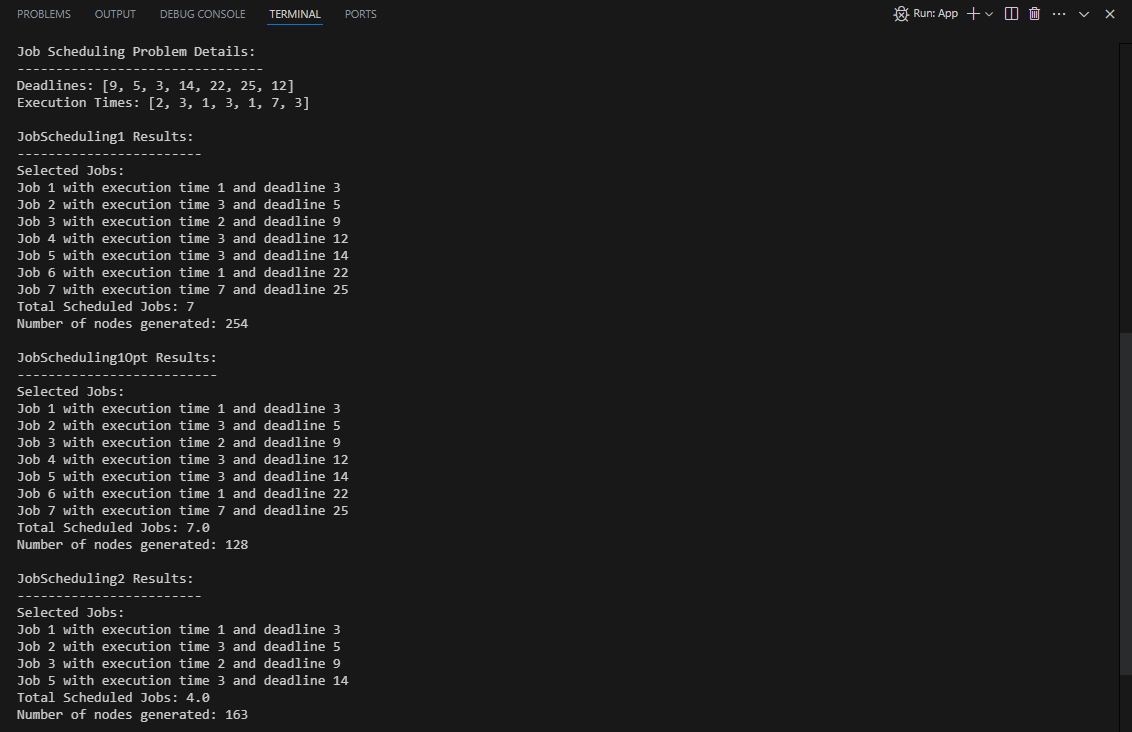
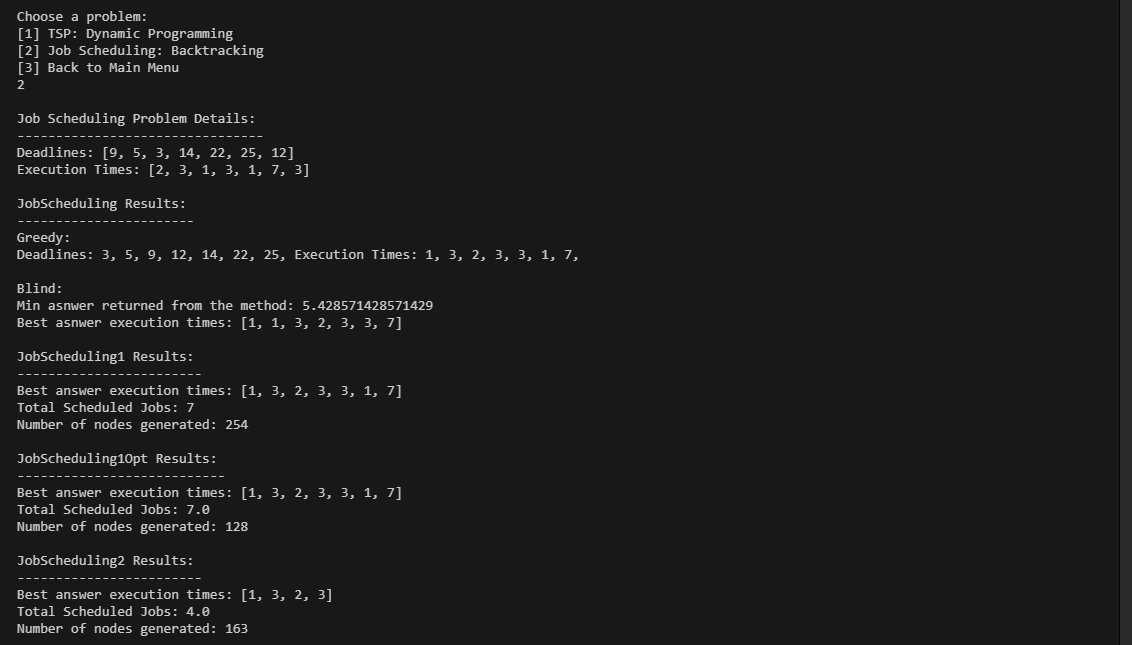
feat: add best answer

diff --git a/major_assignment/src/JobScheduling1Opt.java b/major_assignment/src/JobScheduling1Opt.java
@@ -4,12 +4,14 @@ public class JobScheduling1Opt extends BackTrackingOptimization<Integer> {
     private int n; // Number of jobs
     private int[] deadlines;
     private int[] executionTimes;
+    private int[] bestAnswer;
 
     public JobScheduling1Opt(int[] deadlines, int[] executionTimes) {
         super(new Integer[deadlines.length], new Integer[deadlines.length]);
         this.n = deadlines.length;
         this.deadlines = deadlines;
         this.executionTimes = executionTimes;
+        this.bestAnswer = new int[n];
         sortJobs();
     }
 
@@ -50,14 +52,22 @@ public class JobScheduling1Opt extends BackTrackingOptimization<Integer> {
     protected double cost(int k) {
         int clock = 0;
         int currentProfit = 0;
+        int[] tempBest = new int[n];
+        int index = 0;
         for (int i = 0; i <= k; i++) {
             if (x[i] == 1) {
                 clock += executionTimes[i];
                 if (clock <= deadlines[i]) {
                     currentProfit++;
+                    tempBest[index++] = executionTimes[i];
                 }
             }
         }
+        if (currentProfit > finalProfit) {
+            finalProfit = currentProfit;
+            bestAnswer = Arrays.copyOf(tempBest, index);
+        }
+
         return currentProfit;
     }
 
@@ -67,13 +77,7 @@ public class JobScheduling1Opt extends BackTrackingOptimization<Integer> {
     }
 
     public void report() {
-        System.out.println("Selected Jobs: ");
-        for (int i = 0; i < n; i++) {
-            if (finalX[i] != null && finalX[i] == 1) {
-                System.out.println("Job " + (i + 1) + " with execution time " + executionTimes[i] + " and deadline "
-                        + deadlines[i]);
-            }
-        }
+        System.out.println("Best answer execution times: " + Arrays.toString(bestAnswer));
         System.out.println("Total Scheduled Jobs: " + finalProfit);
         System.out.println("Number of nodes generated: " + numberOfNodes);
     }

diff --git a/major_assignment/src/JobScheduling1.java b/major_assignment/src/JobScheduling1.java
@@ -6,6 +6,7 @@ public class JobScheduling1 extends BackTracking<Integer> {
     private int[] executionTimes;
     private int[] finalX; // Best Solution Tuple
     private int finalProfit;
+    private int[] bestAnswer;
 
     public JobScheduling1(int[] deadlines, int[] executionTimes) {
         super(new Integer[deadlines.length]);
@@ -14,6 +15,7 @@ public class JobScheduling1 extends BackTracking<Integer> {
         this.executionTimes = executionTimes;
         this.finalX = new int[n];
         this.finalProfit = 0;
+        this.bestAnswer = new int[n];
         sortJobs();
     }
 
@@ -59,11 +61,14 @@ public class JobScheduling1 extends BackTracking<Integer> {
     protected void solutionFound(int k) {
         int clock = 0;
         int currentProfit = 0;
+        int[] tempBest = new int[n];
+        int index = 0;
         for (int i = 0; i <= k; i++) {
             if (x[i] == 1) {
                 clock += executionTimes[i];
                 if (clock <= deadlines[i]) {
                     currentProfit++;
+                    tempBest[index++] = executionTimes[i];
                 }
             }
         }
@@ -72,17 +77,12 @@ public class JobScheduling1 extends BackTracking<Integer> {
             for (int i = 0; i < n; i++) {
                 finalX[i] = (x[i] == null) ? 0 : x[i];
             }
+            bestAnswer = Arrays.copyOf(tempBest, index);
         }
     }
 
     public void report() {
-        System.out.println("Selected Jobs: ");
-        for (int i = 0; i < n; i++) {
-            if (finalX[i] == 1) {
-                System.out.println("Job " + (i + 1) + " with execution time " + executionTimes[i] + " and deadline "
-                        + deadlines[i]);
-            }
-        }
+        System.out.println("Best answer execution times: " + Arrays.toString(bestAnswer));
         System.out.println("Total Scheduled Jobs: " + finalProfit);
         System.out.println("Number of nodes generated: " + numberOfNodes);
     }

diff --git a/major_assignment/src/JobScheduling.java b/major_assignment/src/JobScheduling.java
@@ -6,19 +6,8 @@ import java.util.Arrays;
  */
 
 public class JobScheduling {
-    public static void main(String[] args) {
-        JobScheduling jobScheduling = new JobScheduling();
-        int[] deadlines = { 9, 5, 3, 14, 22, 25, 12 };
-        int[] executionTimes = { 2, 3, 1, 3, 1, 7, 3 };
-        jobScheduling.jobSchedulingGreedyEDF(deadlines, executionTimes);
-        jobScheduling.jobSchedulingBlind(deadlines, executionTimes, 0);
-        System.out.println("Min asnwer returned from the method: "
-                + jobScheduling.jobSchedulingBlindOpt(deadlines, executionTimes));
-        System.out.println("Best asnwer execution times: " + Arrays.toString(jobScheduling.bestAnswer));
-    }
-
-    public int[] bestAnswer;
-    public double minAnswer = 1000000000;
+    private int[] bestAnswer;
+    private double minAnswer = 1000000000;
 
     public void jobSchedulingBlind(int[] deadlines, int[] executionTimes, int k) {
         if (k == deadlines.length)
@@ -58,6 +47,11 @@ public class JobScheduling {
             swap(executionTimes, i, k);
         }
         return minAnswer;
+    }
+
+    public void reportBlindOpt() {
+        System.out.println("Min asnwer returned from the method: " + minAnswer);
+        System.out.println("Best asnwer execution times: " + Arrays.toString(bestAnswer));
     }
 
     private boolean valid(int[] deadlines, int[] executionTimes) {
@@ -100,11 +94,11 @@ public class JobScheduling {
             if (clock > data[i][0])
                 return;
         }
-        System.out.print("Greedy -> deadlines: ");
+        System.out.print("Deadlines: ");
         for (int i = 0; i < deadlines.length; i++) {
             System.out.print(data[i][0] + ", ");
         }
-        System.out.print(" Execution Times: ");
+        System.out.print("Execution Times: ");
         for (int i = 0; i < deadlines.length; i++) {
             System.out.print(data[i][1] + ", ");
         }

diff --git a/major_assignment/src/JobScheduling2.java b/major_assignment/src/JobScheduling2.java
@@ -5,6 +5,7 @@ public class JobScheduling2 extends BackTrackingOptimization<Integer> {
     private int[] deadlines;
     private int[] executionTimes;
     private int currentTime;
+    private int[] bestAnswer;
 
     public JobScheduling2(int[] deadlines, int[] executionTimes) {
         super(new Integer[deadlines.length], new Integer[deadlines.length]);
@@ -12,6 +13,7 @@ public class JobScheduling2 extends BackTrackingOptimization<Integer> {
         this.deadlines = deadlines;
         this.executionTimes = executionTimes;
         this.currentTime = 0;
+        this.bestAnswer = new int[0];
         sortJobs();
     }
 
@@ -68,13 +70,16 @@ public class JobScheduling2 extends BackTrackingOptimization<Integer> {
     }
 
     public void report() {
-        System.out.println("Selected Jobs:");
+        int count = 0;
+        int[] tempBest = new int[n];
         for (int i = 0; i < n; i++) {
             if (finalX[i] != null) {
-                System.out.println("Job " + (finalX[i] + 1) + " with execution time " + executionTimes[finalX[i]]
-                        + " and deadline " + deadlines[finalX[i]]);
+                int jobIndex = finalX[i];
+                tempBest[count++] = executionTimes[jobIndex];
             }
         }
+        bestAnswer = Arrays.copyOf(tempBest, count);
+        System.out.println("Best answer execution times: " + Arrays.toString(bestAnswer));
         System.out.println("Total Scheduled Jobs: " + finalProfit);
         System.out.println("Number of nodes generated: " + numberOfNodes);
     }

diff --git a/major_assignment/src/TestRunner.java b/major_assignment/src/TestRunner.java
@@ -28,6 +28,15 @@ public class TestRunner {
         System.out.println("Deadlines: " + Arrays.toString(deadlines));
         System.out.println("Execution Times: " + Arrays.toString(executionTimes));
 
+        JobScheduling jobScheduling = new JobScheduling();
+        System.out.println("\nJobScheduling Results:");
+        System.out.println("-----------------------");
+        System.out.println("Greedy:");
+        jobScheduling.jobSchedulingGreedyEDF(deadlines, executionTimes);
+        System.out.println("\nBlind:");
+        jobScheduling.jobSchedulingBlindOpt(deadlines, executionTimes);
+        jobScheduling.reportBlindOpt();
+
         JobScheduling1 jobScheduling1 = new JobScheduling1(deadlines, executionTimes);
         System.out.println("\nJobScheduling1 Results:");
         System.out.println("------------------------");
@@ -36,7 +45,7 @@ public class TestRunner {
 
         JobScheduling1Opt jobScheduling1Opt = new JobScheduling1Opt(deadlines, executionTimes);
         System.out.println("\nJobScheduling1Opt Results:");
-        System.out.println("--------------------------");
+        System.out.println("---------------------------");
         jobScheduling1Opt.solve();
         jobScheduling1Opt.report();
 
